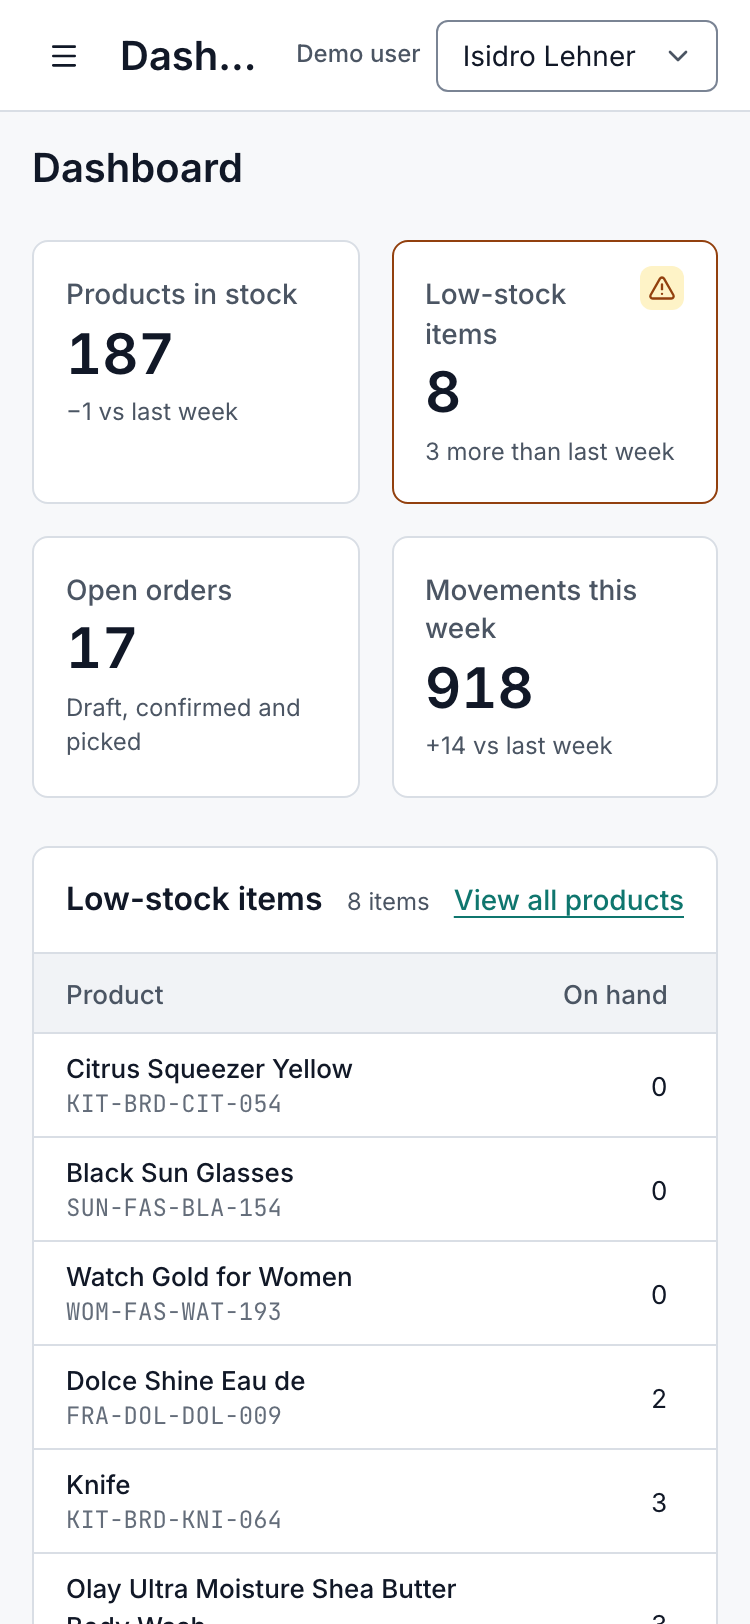
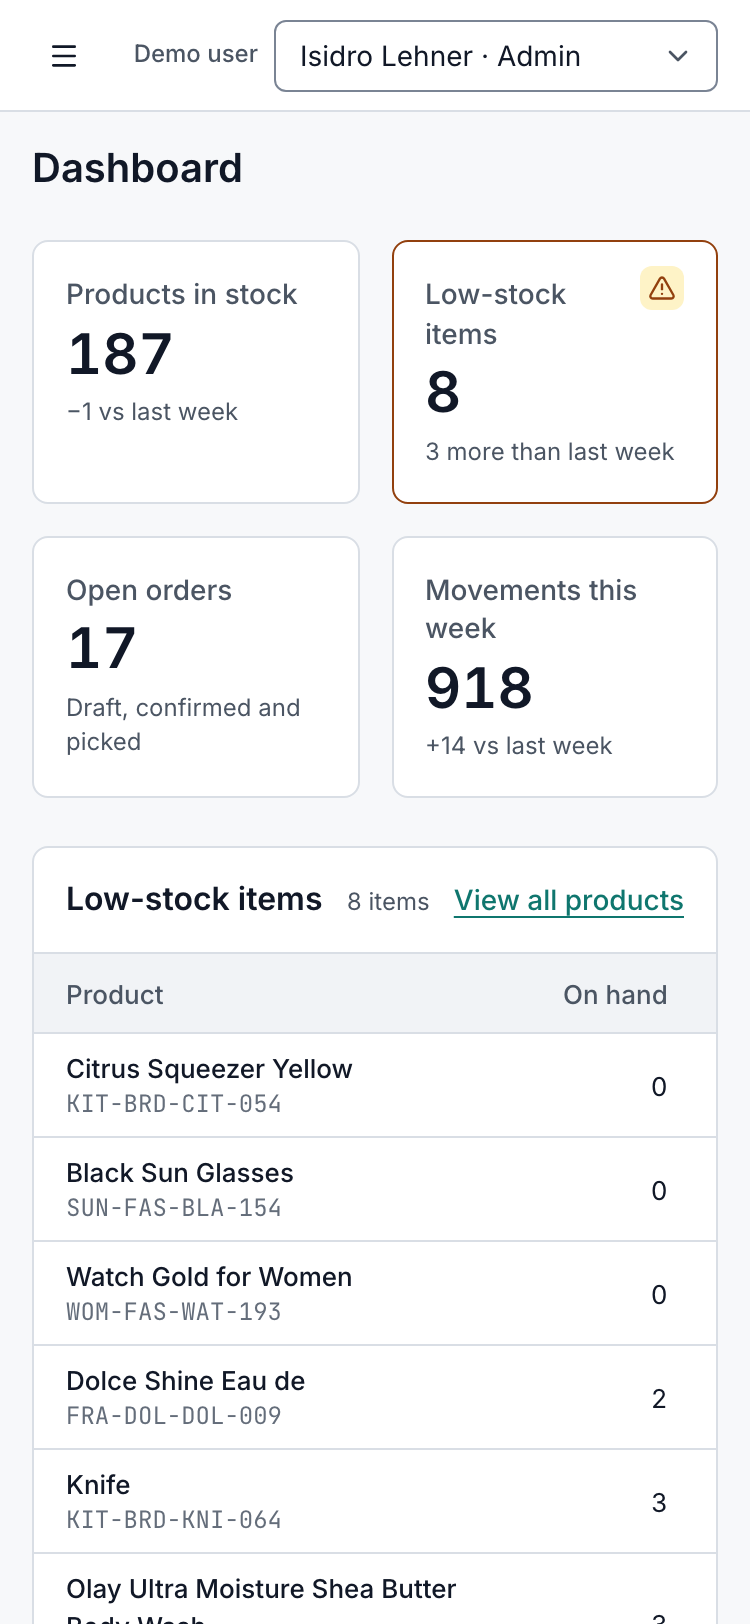
docs: retake the mobile Dashboard screenshot (#44)

Changed region(s): [[0.3987, 0.0308, 0.828, 0.0616], [0.1533, 0.0, 0.3373, 0.0616]]

diff --git a/README.md b/README.md
@@ -59,10 +59,10 @@ A control the current role may not use stays visible and focusable. Its reason (
 
 ## Quality
 
-![The Dashboard at 375 px wide: four KPI cards in two columns and the low-stock list below them; the page title in the top bar is cut off at this width.](docs/images/dashboard-mobile.png)
+![The Dashboard at 375 px wide: the top bar with the menu button and the demo user switcher, four KPI cards in two columns and the low-stock list below them.](docs/images/dashboard-mobile.png)
 
 - **Unit and component tests:** Vitest and React Testing Library, 1,153 tests in 90 files on 2026-10-27 (contract 78, domain 253, seed 13, web app 809). Component tests find elements by role and label and run against the mock API.
-- **End-to-end tests:** Playwright in Chromium against the production build, at 1280 px and 375 px: 111 passed on 2026-10-27 (68 desktop, 43 mobile), plus one that runs only against a deployed site. axe reports zero violations on every route at both widths, per role on screens with guarded controls, and in the loading, empty and error states. What the suite covers: [`docs/testing.md`](docs/testing.md).
+- **End-to-end tests:** Playwright in Chromium against the production build, at 1280 px and 375 px: 147 passed on 2026-10-27 (86 desktop, 61 mobile), plus one that runs only against a deployed site. axe reports zero violations on every route at both widths, per role on screens with guarded controls, and in the loading, empty and error states. What the suite covers: [`docs/testing.md`](docs/testing.md).
 - **Storybook** with the a11y addon: stories for the shared atoms, molecules and organisms and for each screen's view.
 - **Lighthouse on the live site,** 2026-10-27, Lighthouse 13.5.0, mobile preset with simulated throttling, median of 5 runs ([details](docs/performance/production-lighthouse.md)):
 
